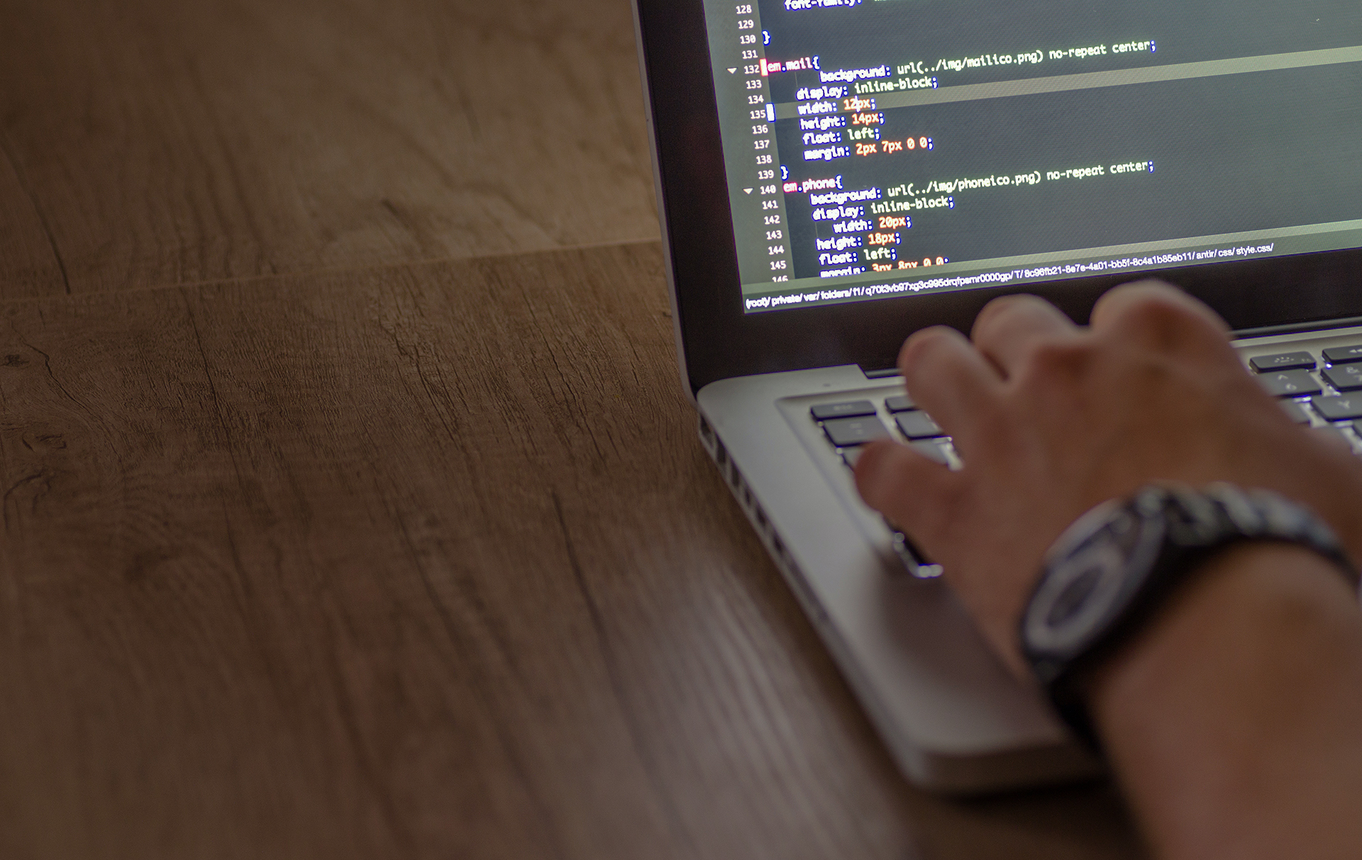
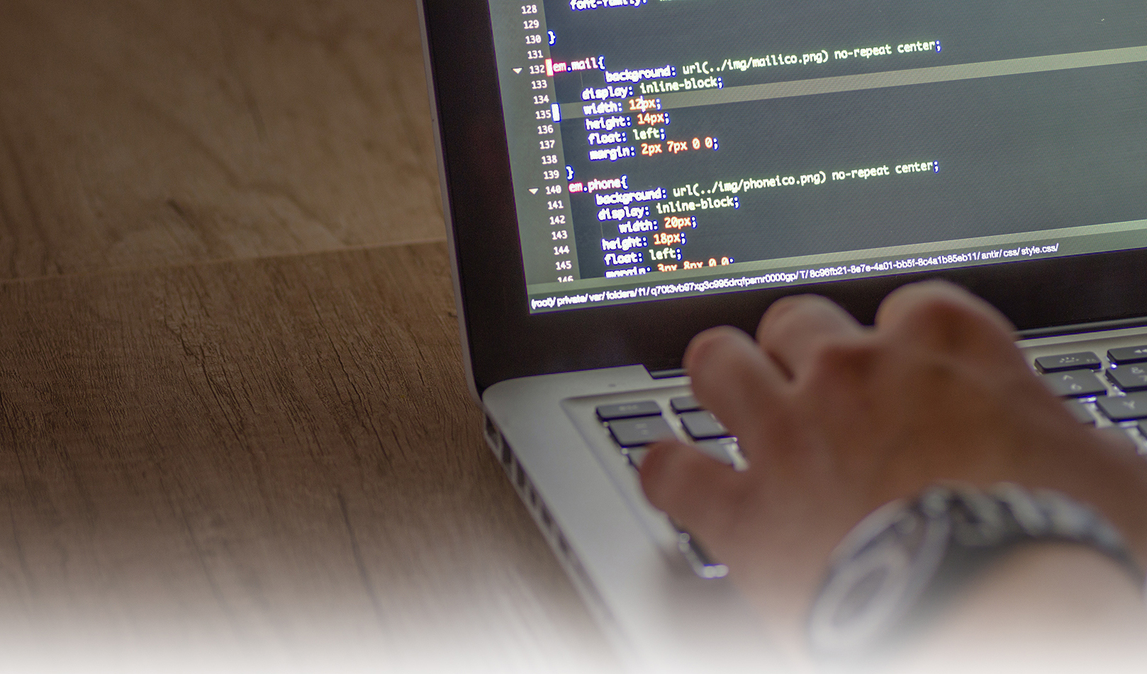
more about us page updates

diff --git a/about.html b/about.html
@@ -35,6 +35,11 @@
     <!-- Required Core stylesheet -->
     <link rel="stylesheet" href="glide-master/dist/css/glide.core.min.css">
 
+    <!-- bebas neue font -->
+    <link rel="stylesheet" href="https://use.typekit.net/ukn2vfn.css">
+    <!-- protipo font -->
+    <link rel="stylesheet" href="https://use.typekit.net/ukn2vfn.css">
+
     <!-- vue.js -->
     <script src="https://unpkg.com/vue@next"></script>
 </head>
@@ -78,33 +83,39 @@
 
     <!-- about me section -->
     <div class="about-banner">
+        <div class="gradient"></div>
         
     </div>
 
+    <div class="about-me-title">
+        <span style="font-family: bebas-neue, sans-serif;color:white;font-size:1.5em;text-shadow: 0 0 5px rgb(0 0 0 / 80%);">Ross Griffus</span><br>
+        [Full Stack Developer] <br>
+        [Web/Multimedia Designer]
+
+        
+    </div>
     <!-- more text section -->
-    <!-- <div class="jumbotron" style="margin-bottom: 0%;">
+    <div class="jumbotron about-me-content" style="margin-bottom: 0%;padding:0%!important;">
         <div class="container row mx-auto" style="display: flex; align-items: center; justify-content: center;">
             <img id="me_falco" src="img/me&falco.png" class="img-fluid col-md-12 col-lg-6" alt="me & falco">
             <div class="col-md-12 col-lg-6">
                 
-                <h6 style="width: 60%; max-width: 60%; margin: 5% auto; line-height: 1.15em;" >
-                
-                    I'm passionate about creating awesome web projects, and I love
-                    making digital
-                    illustrations on my
-                    Ipad.
-                    I also love to watch
-                    my Portland Trail Blazers and Seattle Mariners! Fun fact: 
-                    I'm 90% deaf in my right ear, so speak up! Look at this picture of my dog (:<span id="falco-gif">&#9759;</span>
-                </h6>
+                <div class="container home-container" style="text-align: center;">
+                    <p><span style="font-size: 88px;">&#128579; &#x1F44B;</span>
+                        <br>
+                        <p style="font-size: 2em;font-weight: bold;">Hi Again!
+                    </p>
+                        <br>
+                        &nbsp; &nbsp; &nbsp;I guess you could say I'm pretty laid back. When I'm not playing video games, listening to music or hanging out with my dog, I'm probably out shooting hoops. I love to watch my Portland Trail Blazers and Seattle Mariners! Fun fact: I'm 99% deaf in my right ear!
+                </div> 
             </br>
-            <span><img src="img/Falco_1.GIF" alt="gif of falco" style="width: 100px;margin: 1% 40%;"></span>
+            
                 </div>
             </div>
    
             
         </div>
-    </div> -->
+    </div>
 
     
 
@@ -112,8 +123,10 @@
     <footer>
         <div class="row col-12 mx-auto" style="margin: 0%;">
             <p class="mx-auto text-center">
+                <span><img src="img/Falco_1.GIF" alt="gif of falco" style="width: 100px;"></span> <br>
                 Designed and Built by Ross Griffus <br>
-                Last Updated: July 2022
+                Last Updated: July 2022 
+                
             </br>
                 <a  style="font-size: 1.5em;" href="https://www.linkedin.com/in/ross-griffus-65905a7b/"
                         class="fa fa-linkedin"></a>

diff --git a/style.css b/style.css
@@ -481,15 +481,62 @@ footer p {
 
 .about-banner{
   width: 100%;
-  max-width:1350px;
+  max-width:1550px;
   background-image: url('./img/about-me-banner.jpg');
   background-size:cover;
   background-repeat: no-repeat;
   background-attachment: fixed;
   background-blend-mode:color-dodge;
-  -webkit-mask-image: linear-gradient(to top, transparent 25%, black 75%);
-  mask-image: linear-gradient(to top, transparent 25%, black 75%);
-  height:500px;
+  height:550px;
   margin:auto;
-
+  position:relative;
 }
+
+@media(max-width:990px){
+  .about-banner{
+    background-image:url('./img/about-me-bannerMobile.jpg');
+  }
+}
+
+.gradient{
+  position:absolute;
+  bottom:0px;
+  width:100%;
+  height:65%;
+  background: rgb(255,255,255);
+  background: linear-gradient(180deg, rgba(255,255,255,.00000000000001) 0%, rgba(255,255,255,1) 100%);
+}
+
+/* .about-pic{
+  position:absolute;
+  
+  bottom:0%;
+  left:0%;
+
+} */
+
+.about-me-title{
+  font-size:2em;
+  color:black;
+  font-family: protipo, sans-serif;
+  text-align: left;
+  transform: translate(0px,-200px);
+  margin-left:25%;
+  
+}
+
+@media(max-width:606px){
+  .about-me-title{
+    margin-left:5%;
+  }
+}
+@media(max-width:475px){
+  .about-me-title{
+    font-size:1.6em;
+  }
+}
+
+.about-me-content{
+  background-color:white;
+}
+

diff --git a/index.html b/index.html
@@ -395,6 +395,7 @@
     <footer>
         <div class="row col-12 mx-auto" style="margin: 0%;">
             <p class="mx-auto text-center">
+                <span><img src="img/Falco_1.GIF" alt="gif of falco" style="width: 100px;"></span> <br>
                 Designed and Built by Ross Griffus <br>
                 Last Updated: July 2022
             </br>

diff --git a/projects.html b/projects.html
@@ -155,6 +155,7 @@
     <footer>
         <div class="row col-12 mx-auto" style="margin: 0%;">
             <p class="mx-auto text-center">
+                <span><img src="img/Falco_1.GIF" alt="gif of falco" style="width: 100px;"></span> <br>
                 Designed and Built by Ross Griffus <br>
                 Last Updated: July 2022
             </br>
